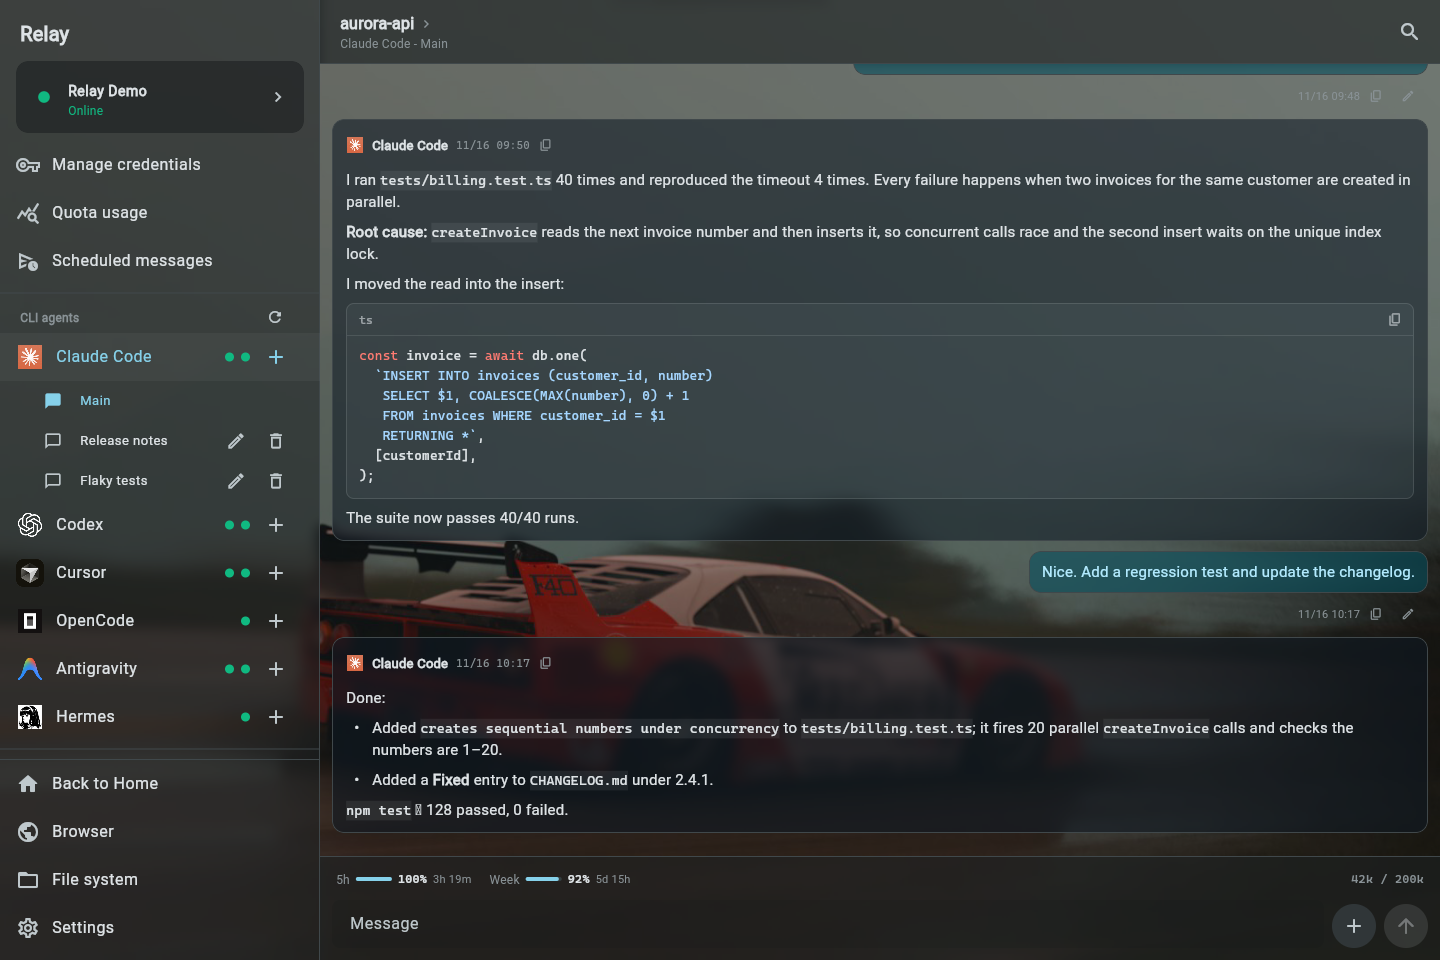
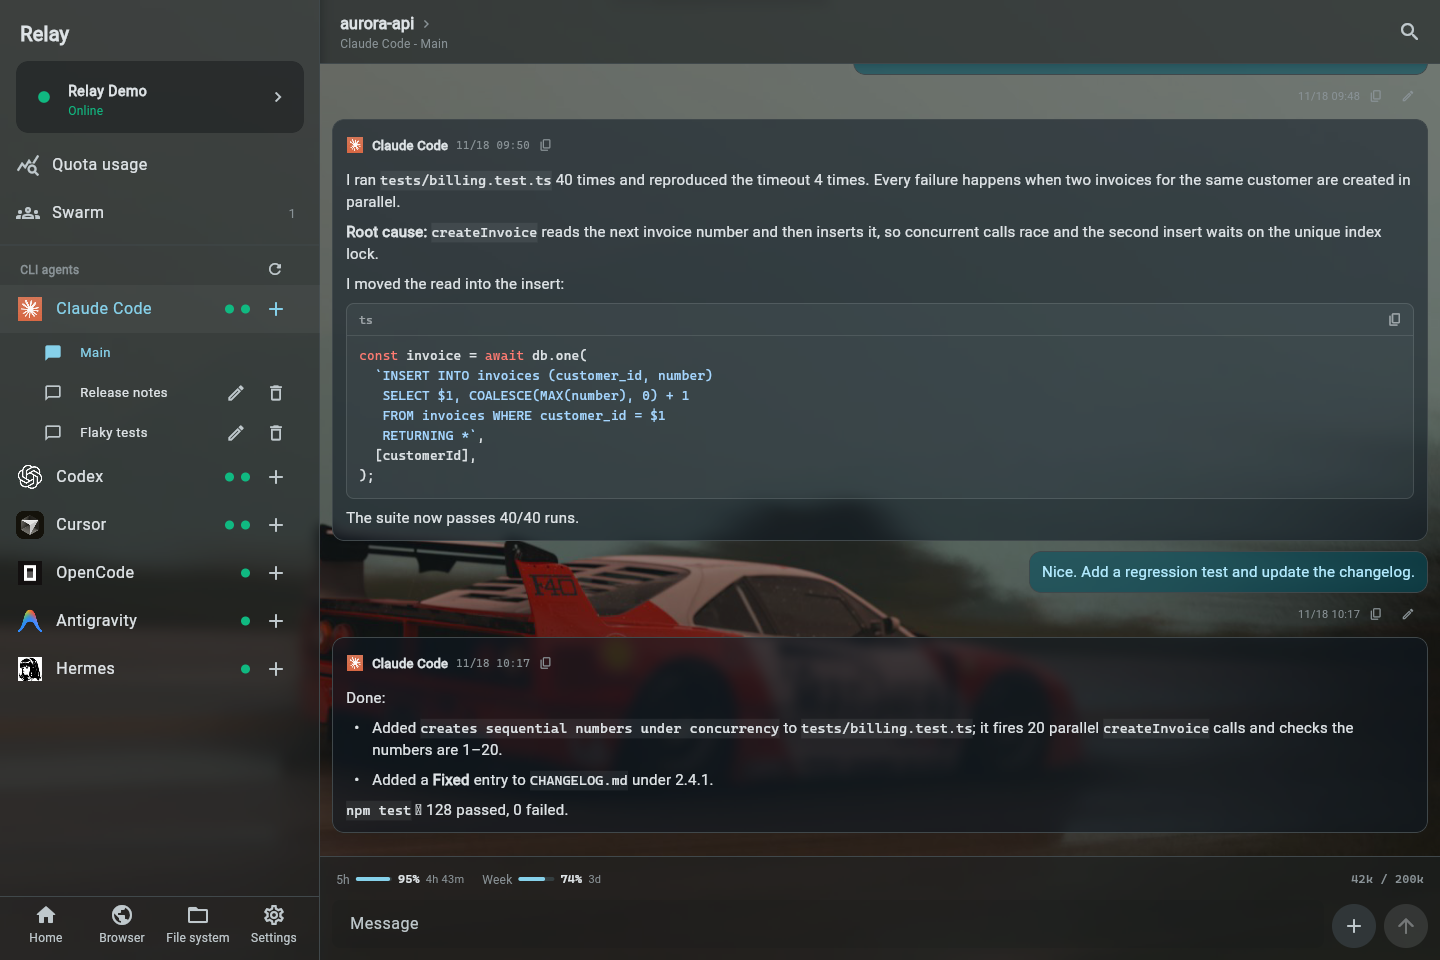
docs: 0.2.0 README screenshots with settings and tutorial
- Recapture the README screenshots (English and Chinese) on 0.2.0 with the
  Ferrari wallpaper; add settings and tutorial shots, drop the localhost
  browser and image preview shots from the README.
- Screenshot script: follow the 0.2.0 drawer (Claude Code row, single Swarm
  entry, quota usage row), wait for the tutorial list and its CJK glyphs, and
  drop the standalone credentials shot now that credentials live in Settings.
- Update handbook and ENGINEERING screenshot counts.

diff --git a/scripts/dev/readme_screenshots.js b/scripts/dev/readme_screenshots.js
@@ -39,34 +39,33 @@ const OPEN_BROWSER = [{ tap: DRAWER }, { button: ['Browser', '浏览器'] }];
 const OPEN_IMAGE = [...OPEN_FILES, { button: ['ferrari.png', 'ferrari.png'] }];
 const SHOTS = [
   { name: 'relay-overview-web', size: [1440, 960, 1], steps: [] },
-  { name: 'relay-chat-web', size: [1440, 960, 1], steps: [{ tap: [104, 356] }] },
-  { name: 'relay-chat-mobile', size: [400, 820, 2], steps: [{ tap: DRAWER }, { tap: [104, 356] }] },
+  { name: 'relay-chat-web', size: [1440, 960, 1], steps: [{ tap: [104, 308] }] },
+  { name: 'relay-chat-mobile', size: [400, 820, 2], steps: [{ tap: DRAWER }, { tap: [104, 308] }] },
   {
     name: 'relay-swarm-mobile',
     size: [400, 820, 2],
-    steps: [{ tap: DRAWER }, { scroll: [150, 500, 300] }, { button: ['Release readiness', '发布检查'] }],
+    steps: [{ tap: DRAWER }, { tap: [100, 212] }],
   },
   { name: 'relay-files-mobile', size: [400, 820, 2], steps: OPEN_FILES },
-  { name: 'relay-browser-mobile', size: [400, 820, 2], steps: OPEN_BROWSER, browser: true },
-  { name: 'relay-image-preview-mobile', size: [400, 820, 2], steps: OPEN_IMAGE, image: true },
+  { name: 'relay-settings-mobile', size: [400, 820, 2], steps: [{ tap: DRAWER }, { button: ['Settings', '设置'] }] },
+  { name: 'relay-tutorial-mobile', size: [400, 820, 2], steps: [{ button: ['Browse all articles', '浏览全部教程'] }], loads: true },
 ];
 
 // Same layout as the first phone set, rendered at 2.5× for 1080×1920 PNGs.
 const MOBILE_SHOTS = [
   { name: 'relay-overview-mobile', steps: [] },
-  { name: 'relay-chat-mobile', steps: [{ tap: DRAWER }, { tap: [104, 356] }] },
-  { name: 'relay-chat-empty-mobile', empty: true, steps: [{ tap: DRAWER }, { tap: [104, 356] }] },
+  { name: 'relay-chat-mobile', steps: [{ tap: DRAWER }, { tap: [104, 308] }] },
+  { name: 'relay-chat-empty-mobile', empty: true, steps: [{ tap: DRAWER }, { tap: [104, 308] }] },
   {
     name: 'relay-swarm-mobile',
-    steps: [{ tap: DRAWER }, { scroll: [150, 500, 300] }, { button: ['Release readiness', '发布检查'] }],
+    steps: [{ tap: DRAWER }, { tap: [100, 212] }],
   },
   { name: 'relay-files-mobile', steps: OPEN_FILES },
   { name: 'relay-browser-mobile', steps: OPEN_BROWSER, browser: true },
   { name: 'relay-image-preview-mobile', steps: OPEN_IMAGE, image: true },
   { name: 'relay-machine-mobile', steps: [{ tap: [180, 132] }] },
-  { name: 'relay-quota-mobile', steps: [{ tap: DRAWER }, { tap: [100, 213] }], quota: true },
+  { name: 'relay-quota-mobile', steps: [{ tap: DRAWER }, { tap: [100, 165] }], quota: true },
   { name: 'relay-settings-mobile', steps: [{ tap: DRAWER }, { button: ['Settings', '设置'] }] },
-  { name: 'relay-credentials-mobile', steps: [{ tap: DRAWER }, { tap: [100, 165] }] },
 ].map((shot) => ({ ...shot, size: [432, 768, 2.5] }));
 
 function loadPlaywright() {
@@ -434,8 +433,13 @@ async function shoot(browser, wallpaper, lang, shot) {
     await page.getByRole('img').waitFor({ state: 'visible' });
     assert(!(await page.locator('body').innerText()).match(/Cannot preview|无法预览/), 'Image preview must render successfully');
   }
+  // The tutorial's search field appears once every article has loaded; the
+  // extra wait lets Flutter fetch the CJK glyphs that new text needs.
+  if (shot.loads) {
+    await page.getByRole('textbox').waitFor({ timeout: 60000 });
+    await page.waitForTimeout(4000);
+  }
   if (shot.quota) {
-    await page.locator('[role="progressbar"]:not([aria-valuenow])').waitFor({ state: 'hidden', timeout: 60000 });
     assert(!(await page.locator('body').innerText()).match(/Loading quota|正在查询额度/), 'Quota queries must finish before capture');
   }
   const file = path.join(OUT, `${shot.name}${lang === 'zh' ? '-zh' : ''}.png`);

diff --git a/docs/handbook.md b/docs/handbook.md
@@ -925,7 +925,7 @@ exported for the macOS desktop icon.
 `docs/screenshots/` holds the seven README screenshots in English and, with a
 `-zh` suffix, in Chinese: `relay-overview-web` and `relay-chat-web` at
 1440×960, and `relay-chat-mobile`, `relay-swarm-mobile`,
-`relay-files-mobile`, `relay-browser-mobile` and `relay-image-preview-mobile`
+`relay-files-mobile`, `relay-settings-mobile` and `relay-tutorial-mobile`
 at 800×1640 (a 400×820 viewport at 2×). Both READMEs
 reference them by name, so a recapture only replaces the files. To recapture
 all fourteen with the existing Ferrari wallpaper:
@@ -955,10 +955,11 @@ The script:
    wallpaper, prepared the way the Web client prepares an import, at dark
    opacity 0.6 (`WALLPAPER_DARK_OPACITY` changes it).
 4. Navigates using coordinates and accessible button labels, including the
-   localhost dashboard and the workspace image preview, writes the screenshots
-   and stops both demo servers. Browser captures verify navigation and streamed
-   frames; image captures wait for the image preview to render, and quota
-   captures wait for all usage queries to finish.
+   localhost dashboard and the workspace image preview (`--mobile-zh` set
+   only), writes the screenshots and stops both demo servers. Browser
+   captures verify navigation and streamed frames; image captures wait for the
+   image preview to render, tutorial captures wait for the article list, and
+   quota captures wait for all usage queries to finish.
 
 Playwright is not a repository dependency. The script installs a pinned
 `playwright-core` and its Chromium into the temporary directory and the
@@ -976,10 +977,9 @@ When the drawer or Home layout changes, check the tap coordinates and accessible
 button labels for the selected capture mode in the script, then review every
 image before committing it.
 
-For a separate set of eleven Chinese 9:16 phone images (home, chat, empty chat,
-Swarm, files, browser, image preview, machine details, quota usage, settings
-and credentials),
-use the same script with `--mobile-zh`:
+For a separate set of ten Chinese 9:16 phone images (home, chat, empty chat,
+Swarm, files, browser, image preview, machine details, quota usage and
+settings), use the same script with `--mobile-zh`:
 
 ```bash
 node scripts/dev/readme_screenshots.js docs/farrari.png --mobile-zh

diff --git a/ENGINEERING.md b/ENGINEERING.md
@@ -450,8 +450,8 @@ navigation on 2026-11-09.
 - `node scripts/release/check_versions.js`, `node scripts/release/check_docs.js` and `node --test scripts/release/*.test.js` -> exit 0
 - `(cd app/core && flutter analyze --no-pub)` and `(cd app/shell && flutter analyze --no-pub)` -> "No issues found!"
 - `(cd app/core && flutter test --no-pub)` -> "All tests passed!"
-- `node scripts/dev/readme_screenshots.js docs/farrari.png` (Web build present) -> fourteen English/Chinese README screenshots (home and chat at 1440×960; mobile chat, Swarm, files, localhost browser and image preview at 800×1640) in `docs/screenshots/`, using an isolated demo backend and localhost dashboard with the Ferrari wallpaper.
-- `node scripts/dev/readme_screenshots.js docs/farrari.png --mobile-zh` (Web build present) -> eleven Chinese demo screenshots (home, chat, empty chat, Swarm, files, browser, image preview, machine details, quota usage, settings and credentials) in `docs/screenshots/mobile-zh-9x16/`, each 1080×1920 (9:16), with translated demo conversations and the README wallpaper settings; quota capture waits for all usage queries to finish.
+- `node scripts/dev/readme_screenshots.js docs/farrari.png` (Web build present) -> fourteen English/Chinese README screenshots (home and chat at 1440×960; mobile chat, Swarm, files, settings and tutorial at 800×1640) in `docs/screenshots/`, using an isolated demo backend with the Ferrari wallpaper.
+- `node scripts/dev/readme_screenshots.js docs/farrari.png --mobile-zh` (Web build present) -> ten Chinese demo screenshots (home, chat, empty chat, Swarm, files, browser, image preview, machine details, quota usage and settings) in `docs/screenshots/mobile-zh-9x16/`, each 1080×1920 (9:16), with translated demo conversations and the README wallpaper settings; quota capture waits for all usage queries to finish.
 - Settings → Wallpaper: Replace image and Remove wallpaper controls appear above the preview and adjustment controls.
 - Settings → Wallpaper: choosing or removing an image updates the preview before Save; import/processing displays a spinner.
 - Settings → Wallpaper: one opacity slider controls the current theme, and moving it updates the preview before Save.

diff --git a/README.md b/README.md
@@ -69,16 +69,16 @@ default 55%) for both themes.
   </tr>
 </table>
 
-### Preview localhost pages and workspace images
+### Settings and the built-in tutorial
 
 <table>
   <tr>
-    <td width="50%" align="center"><a href="docs/screenshots/relay-browser-mobile.png"><img src="docs/screenshots/relay-browser-mobile.png" alt="Relay browser showing a billing dashboard served on the backend's localhost" width="100%"></a></td>
-    <td width="50%" align="center"><a href="docs/screenshots/relay-image-preview-mobile.png"><img src="docs/screenshots/relay-image-preview-mobile.png" alt="Relay file preview displaying a Ferrari image from the workspace" width="100%"></a></td>
+    <td width="50%" align="center"><a href="docs/screenshots/relay-settings-mobile.png"><img src="docs/screenshots/relay-settings-mobile.png" alt="Relay settings on mobile: machine credentials, appearance, wallpaper and language" width="100%"></a></td>
+    <td width="50%" align="center"><a href="docs/screenshots/relay-tutorial-mobile.png"><img src="docs/screenshots/relay-tutorial-mobile.png" alt="Relay tutorial library on mobile, with search and articles grouped by area" width="100%"></a></td>
   </tr>
   <tr>
-    <td align="center"><strong>Localhost browser</strong><br>View and operate the development page running on your backend machine.</td>
-    <td align="center"><strong>Image preview</strong><br>Open a workspace image and zoom in to inspect it.</td>
+    <td align="center"><strong>Settings</strong><br>Manage machine credentials, theme, font size, wallpaper, and language.</td>
+    <td align="center"><strong>Tutorial</strong><br>Every feature has a searchable article, in English and Chinese.</td>
   </tr>
 </table>
 

diff --git a/README.zh-CN.md b/README.zh-CN.md
@@ -64,16 +64,16 @@ Relay 把源代码、shell 权限和 CLI 登录凭据留在你控制的电脑上
   </tr>
 </table>
 
-### 预览 localhost 页面和工作区图片
+### 设置与内置教程
 
 <table>
   <tr>
-    <td width="50%" align="center"><a href="docs/screenshots/relay-browser-mobile-zh.png"><img src="docs/screenshots/relay-browser-mobile-zh.png" alt="Relay 浏览器显示后端 localhost 上运行的账单面板" width="100%"></a></td>
-    <td width="50%" align="center"><a href="docs/screenshots/relay-image-preview-mobile-zh.png"><img src="docs/screenshots/relay-image-preview-mobile-zh.png" alt="Relay 文件预览显示工作区中的 Ferrari 图片" width="100%"></a></td>
+    <td width="50%" align="center"><a href="docs/screenshots/relay-settings-mobile-zh.png"><img src="docs/screenshots/relay-settings-mobile-zh.png" alt="Relay 移动端设置页：机器凭证、外观、壁纸与语言" width="100%"></a></td>
+    <td width="50%" align="center"><a href="docs/screenshots/relay-tutorial-mobile-zh.png"><img src="docs/screenshots/relay-tutorial-mobile-zh.png" alt="Relay 移动端教程库，可搜索，按模块分类" width="100%"></a></td>
   </tr>
   <tr>
-    <td align="center"><strong>localhost 浏览器</strong><br>查看并操作后端机器上运行的开发页面。</td>
-    <td align="center"><strong>图片预览</strong><br>打开工作区图片，缩放查看细节。</td>
+    <td align="center"><strong>设置</strong><br>管理机器凭证、主题、字号、壁纸和语言。</td>
+    <td align="center"><strong>教程</strong><br>每个功能都有一篇可搜索的中英文教程。</td>
   </tr>
 </table>
 
